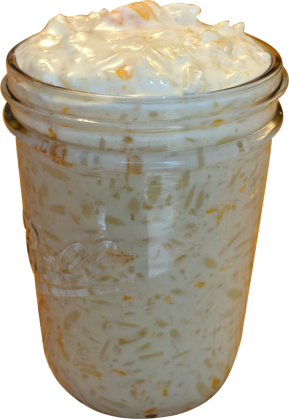
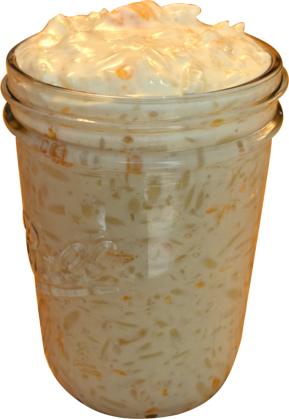
Adjusting the img attributes slightly.

diff --git a/content/css/default.css b/content/css/default.css
@@ -17,8 +17,8 @@ img {
   height: 70%;
   padding-left: 2.5%;
   padding-right: 2.5%;
-  padding-top: 15%;
-  padding-bottom: 15%;
+  margin-top: 7.5%;
+  margin-bottom: 10%;
 }
 
 .jar {
